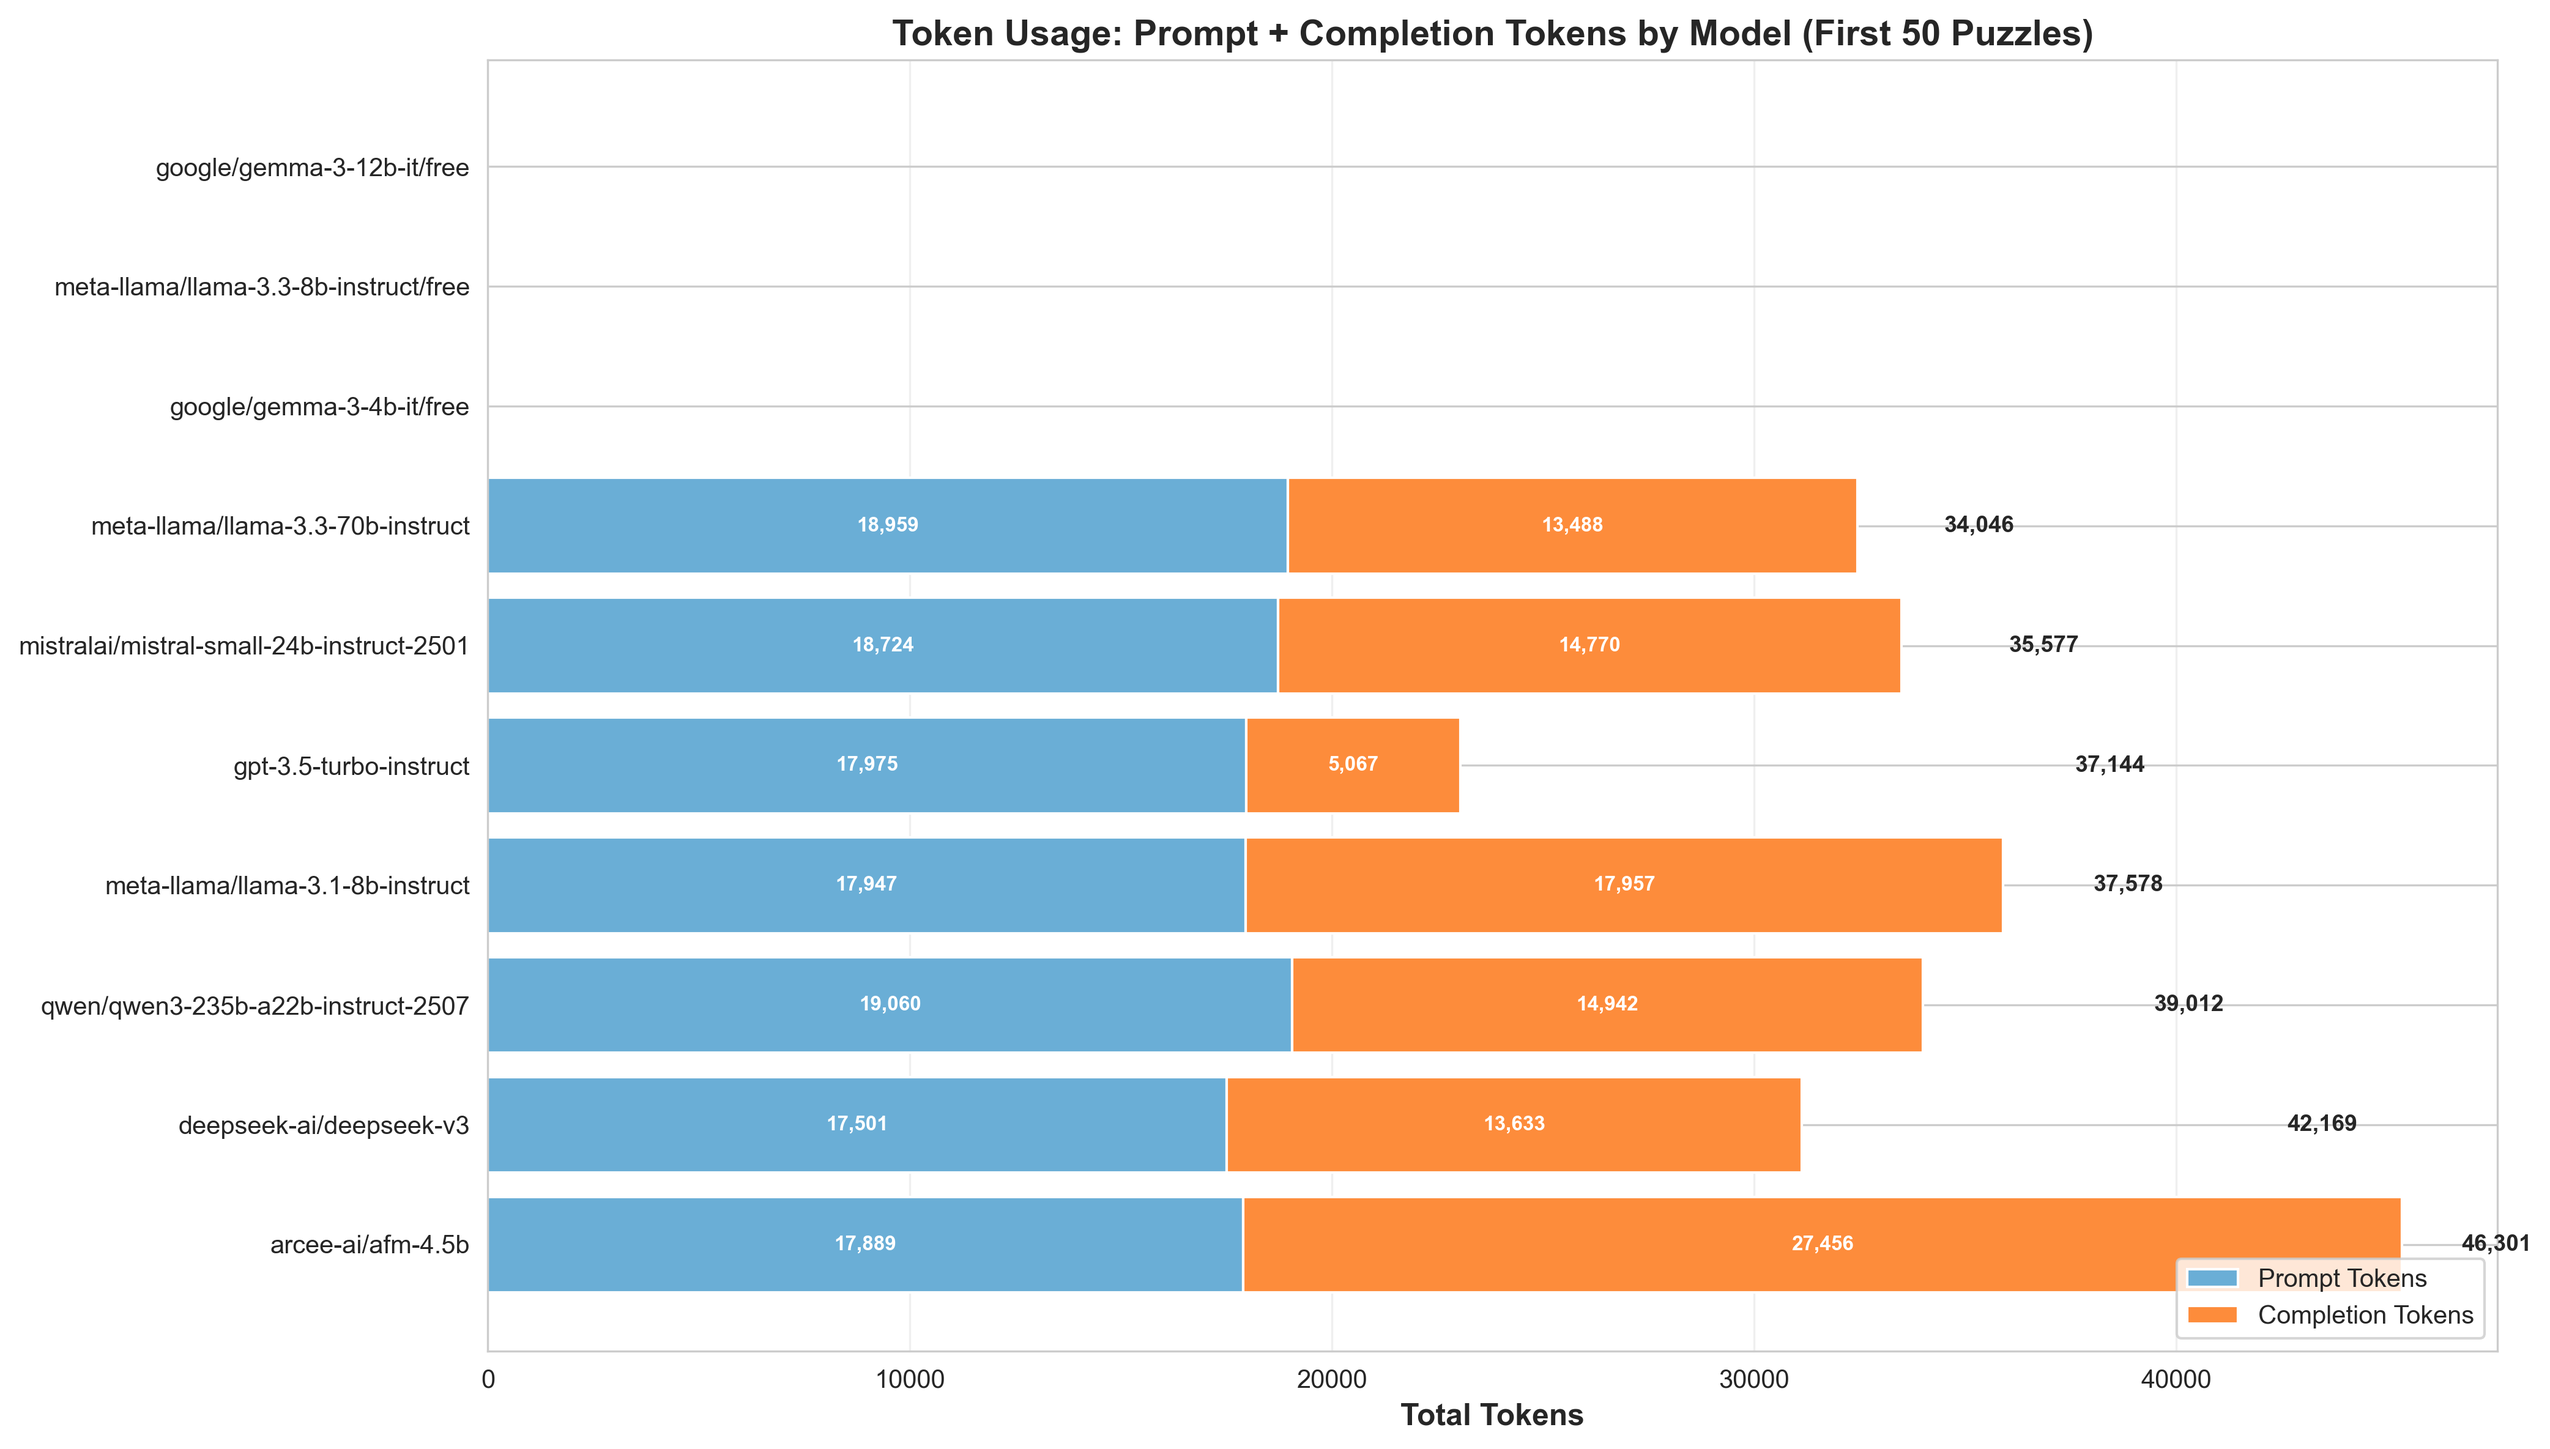
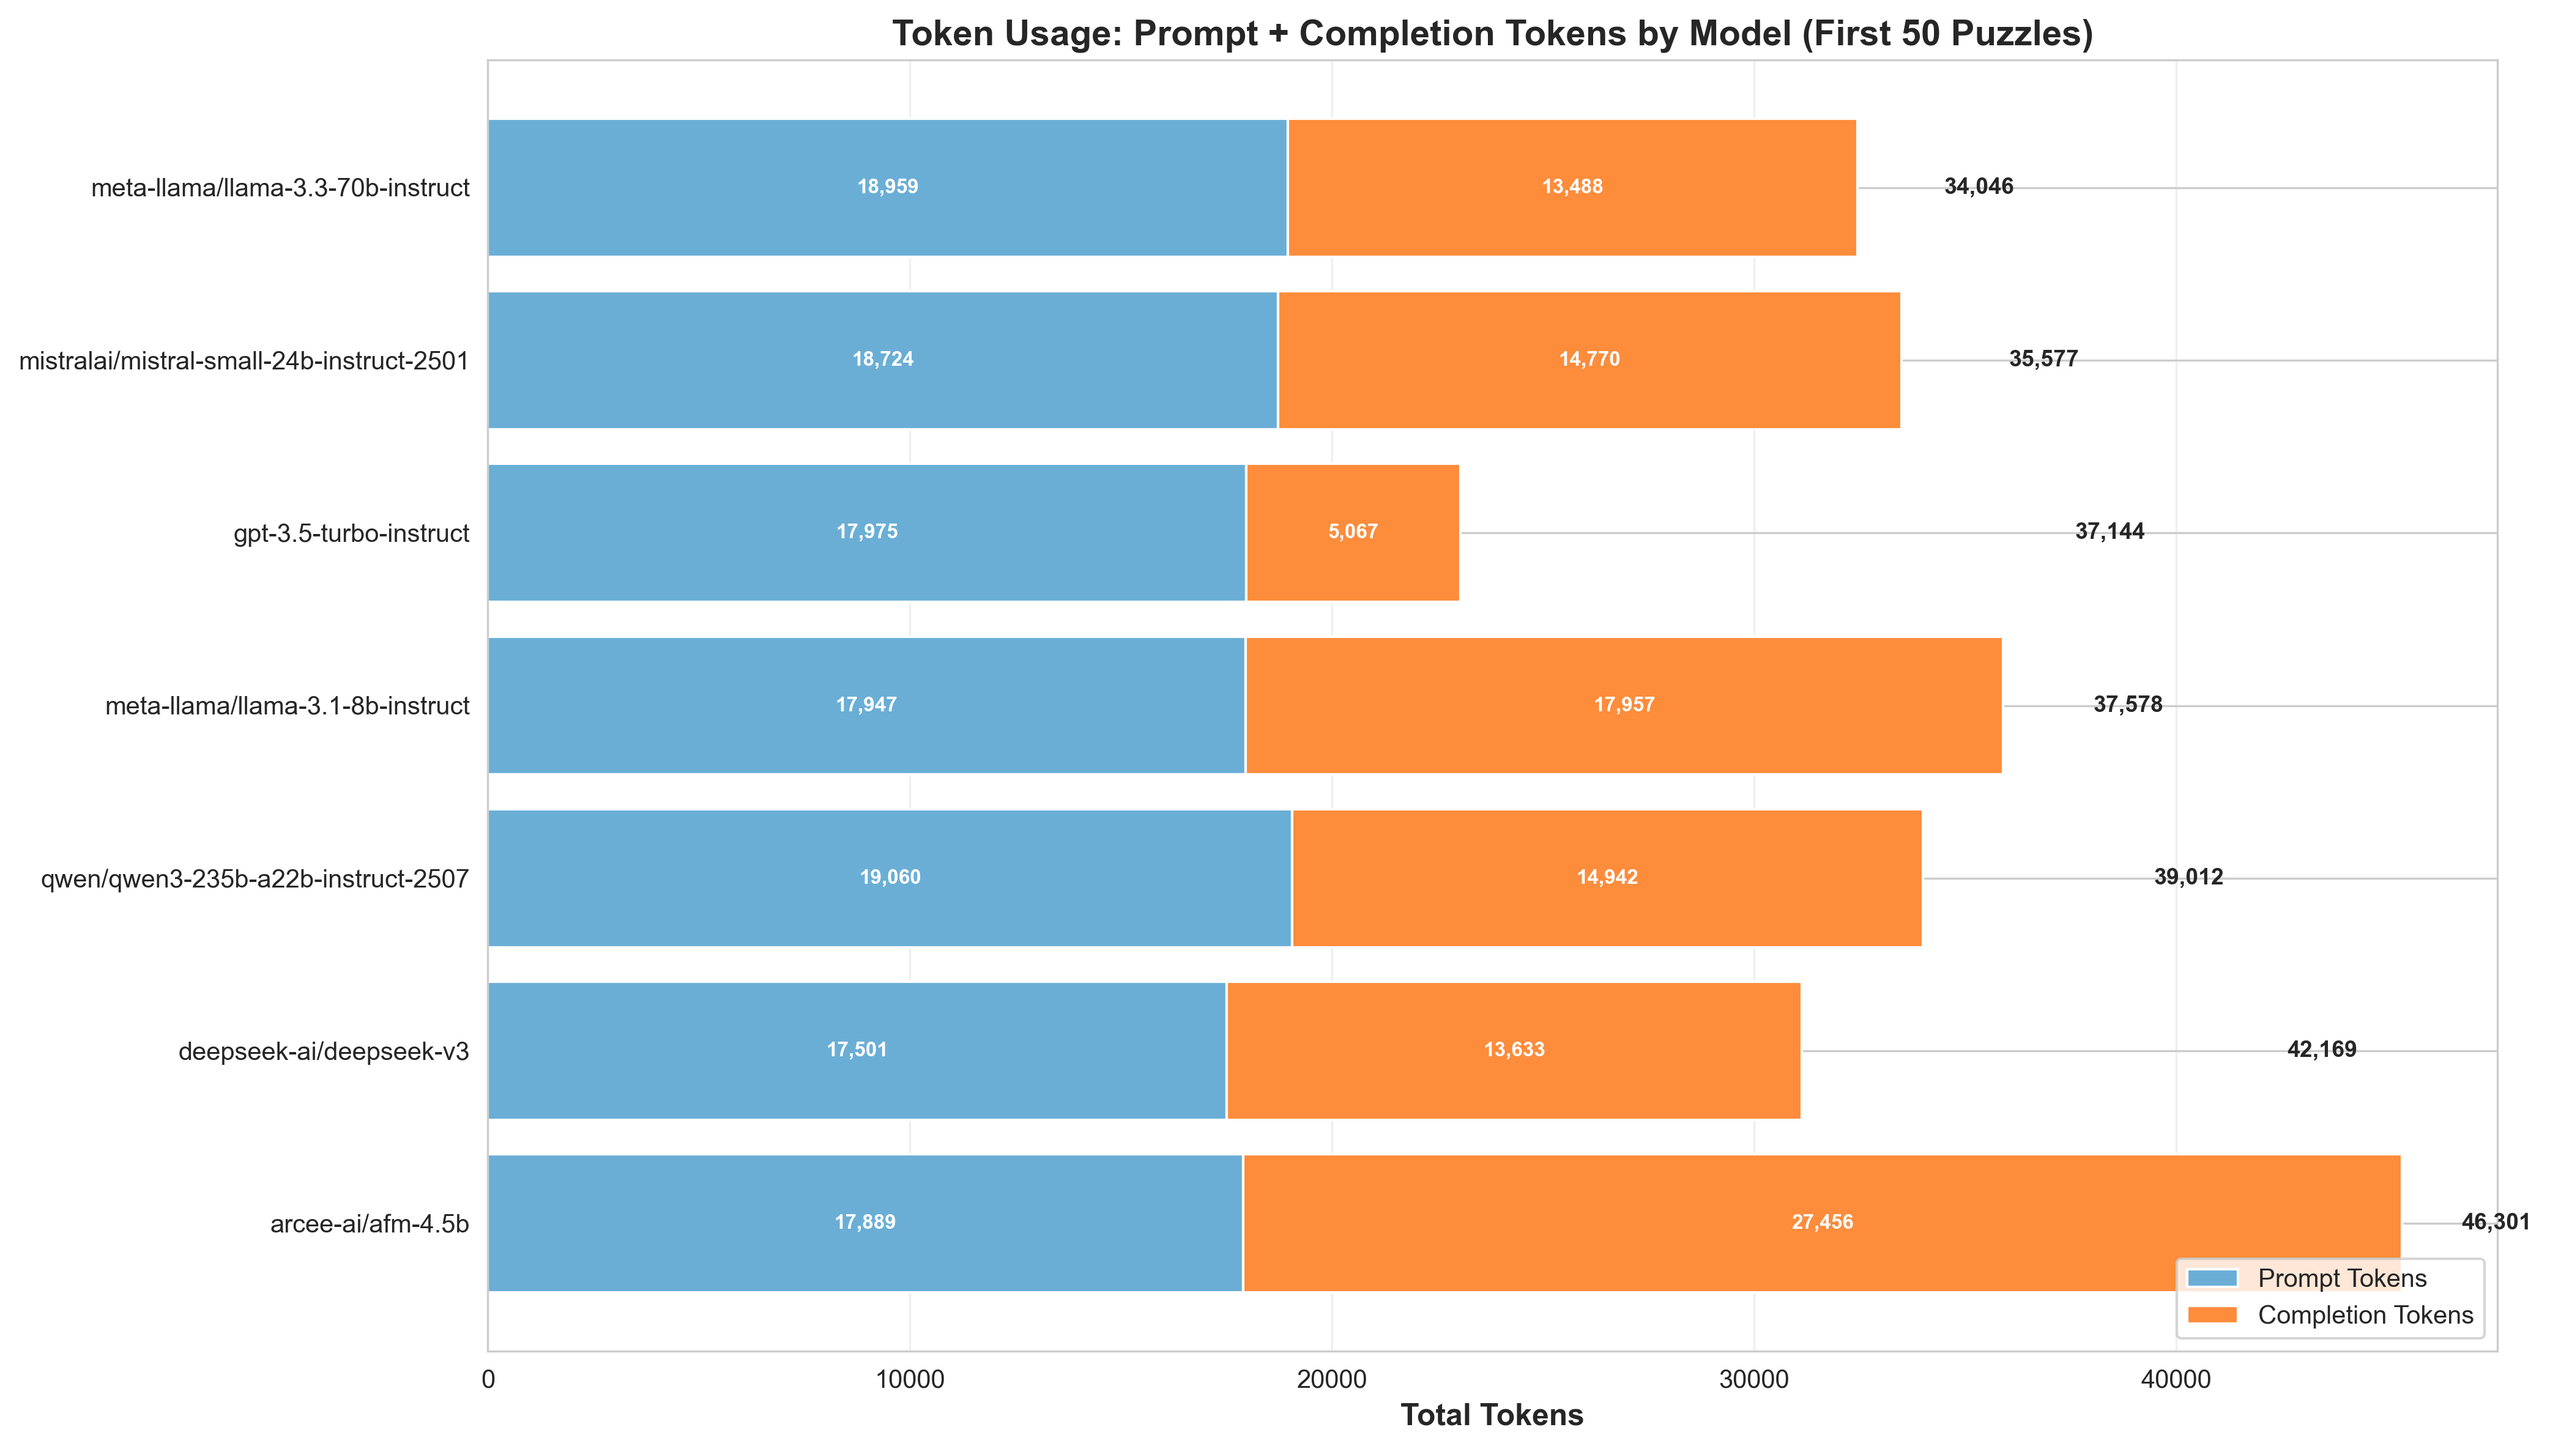
Update graphs

diff --git a/scripts/graph_all_paradigms.py b/scripts/graph_all_paradigms.py
@@ -21,10 +21,16 @@ sys.path.insert(0, str(parent_dir))
 sns.set_style("whitegrid")
 plt.rcParams['font.size'] = 10
 
-# Models to exclude (failed models)
+# Models to exclude (failed models or API issues)
 EXCLUDED_MODELS = [
     "google/gemma-3-4b-it (free)",
     "google/gemma-3-12b-it (free)",
+    "google/gemma-3-4b-it:free",
+    "google/gemma-3-12b-it:free",
+    "google/gemma-3-27b-it:free",
+    "google/gemma-3-4b-it",
+    "google/gemma-3-12b-it",
+    "google/gemma-3-27b-it",
     "meta-llama/llama-3.3-8b-instruct (free)",
 ]
 

diff --git a/scripts/graph_errors.py b/scripts/graph_errors.py
@@ -116,6 +116,12 @@ def create_error_graphs(results_dir: str = "data/test_results", output_dir: str 
     excluded_models = [
         "google/gemma-3-4b-it (free)",
         "google/gemma-3-12b-it (free)",
+        "google/gemma-3-4b-it:free",
+        "google/gemma-3-12b-it:free",
+        "google/gemma-3-27b-it:free",
+        "google/gemma-3-4b-it",
+        "google/gemma-3-12b-it",
+        "google/gemma-3-27b-it",
         "meta-llama/llama-3.3-8b-instruct (free)",
     ]
     

diff --git a/scripts/graph_single_model_accuracy.py b/scripts/graph_single_model_accuracy.py
@@ -113,6 +113,12 @@ def create_accuracy_graph(results_dir: str = "data/test_results", output_dir: st
     excluded_models = [
         "google/gemma-3-4b-it (free)",
         "google/gemma-3-12b-it (free)",
+        "google/gemma-3-4b-it:free",
+        "google/gemma-3-12b-it:free",
+        "google/gemma-3-27b-it:free",
+        "google/gemma-3-4b-it",
+        "google/gemma-3-12b-it",
+        "google/gemma-3-27b-it",
         "meta-llama/llama-3.3-8b-instruct (free)",
     ]
     

diff --git a/scripts/graph_tokens.py b/scripts/graph_tokens.py
@@ -126,6 +126,12 @@ def create_token_graphs(results_dir: str = "data/test_results", output_dir: str 
     excluded_models = [
         "google/gemma-3-4b-it (free)",
         "google/gemma-3-12b-it (free)",
+        "google/gemma-3-4b-it:free",
+        "google/gemma-3-12b-it:free",
+        "google/gemma-3-27b-it:free",
+        "google/gemma-3-4b-it",
+        "google/gemma-3-12b-it",
+        "google/gemma-3-27b-it",
         "meta-llama/llama-3.3-8b-instruct (free)",
     ]
     

diff --git a/README.md b/README.md
@@ -79,20 +79,6 @@ The system evaluates three paradigms:
 #### Token Usage Comparison
 ![Paradigm Comparison - Token Usage](data/graphs/paradigm_comparison_tokens.png)
 
-### Single Model Performance
-
-#### Puzzle and Move Accuracy
-![Single Model - Puzzle Accuracy](data/graphs/single_model_puzzle_accuracy.png)
-![Single Model - Move Accuracy](data/graphs/single_model_move_accuracy.png)
-
-#### Token Usage
-![Single Model - Token Usage](data/graphs/single_model_token_usage.png)
-
-#### Error Analysis
-![Single Model - Error Rate](data/graphs/single_model_error_rate.png)
-![Single Model - Error Count](data/graphs/single_model_error_count.png)
-![Single Model - Error Types](data/graphs/single_model_error_types.png)
-
 ### Key Findings
 
 1. **Debate Efficiency**: The debate system achieves early consensus 81.8% of the time for GPT-3.5-turbo-instruct, using only 2 queries instead of 3, resulting in 0.58x the tokens of self-consistency.
